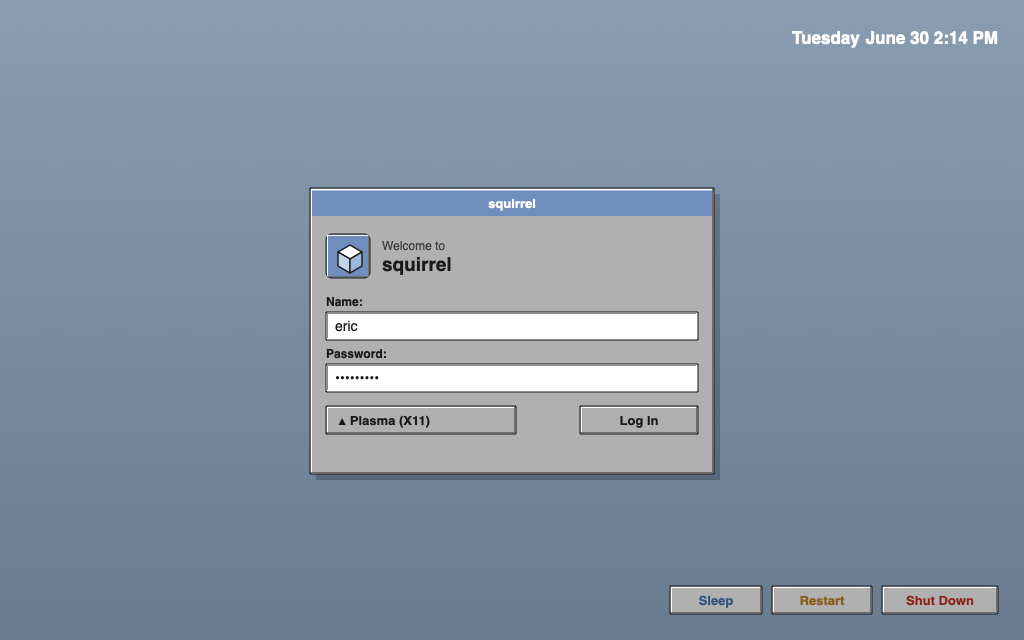
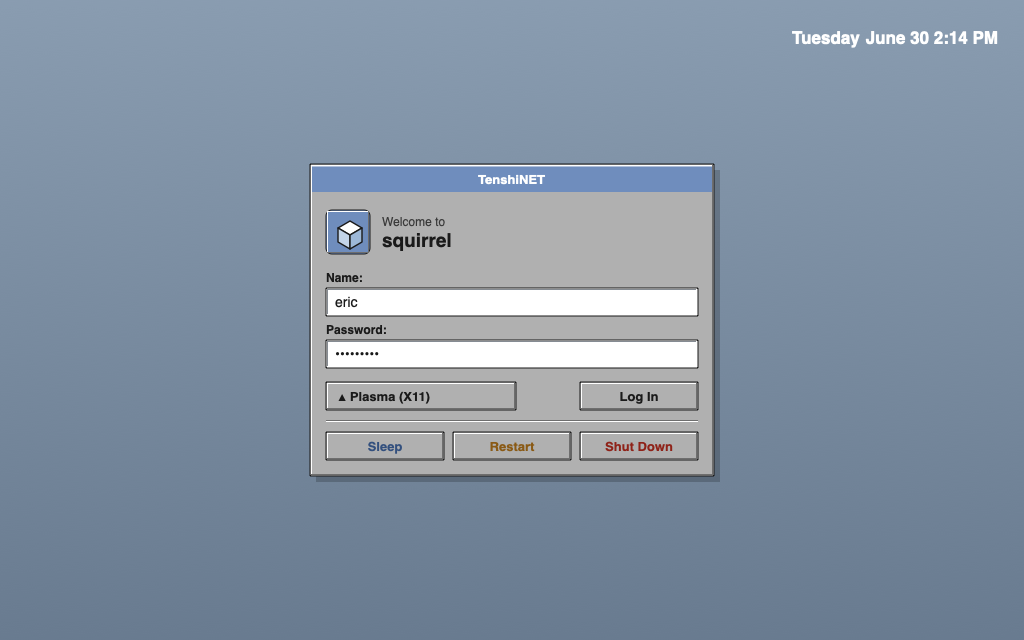
SDDM: title bar reads TenshiNET; move power buttons into the panel footer
Both Qt5 and Qt6 greeters: title bar text set to 'TenshiNET', and the
Sleep/Restart/Shut Down buttons relocated from the screen corner into the
bottom of the login panel below a chiselled divider. Previews regenerated.

Changed region(s): [[0.2812, 0.25, 0.7188, 0.75], [0.6562, 0.9062, 1.0, 0.9688]]

diff --git a/squirrellevel-plasma/sddm/SquirrelLevel/Main.qml b/squirrellevel-plasma/sddm/SquirrelLevel/Main.qml
@@ -63,7 +63,7 @@ Rectangle {
             Rectangle { anchors.bottom: parent.bottom; anchors.left: parent.left; anchors.right: parent.right; height: 1; color: "#1a1a1a"; opacity: 0.35 }
             Text {
                 anchors.centerIn: parent
-                text: (typeof sddm !== "undefined" && sddm.hostName) ? sddm.hostName : "Log In"
+                text: "TenshiNET"
                 color: "#ffffff"; font.family: "Helvetica"; font.pixelSize: 13; font.bold: true
             }
         }
@@ -145,6 +145,34 @@ Rectangle {
                     onClicked: root.doLogin()
                 }
             }
+
+            // chiselled divider
+            Item {
+                width: parent.width; height: 3
+                Rectangle { width: parent.width; height: 1; color: "#6e6e6e" }
+                Rectangle { y: 1; width: parent.width; height: 1; color: "#ffffff" }
+            }
+
+            // power buttons (footer of the login panel)
+            Row {
+                width: parent.width
+                spacing: 9
+                NeXTButton {
+                    width: 118; height: 28; text: "Sleep"; textColor: "#33507e"
+                    visible: (typeof sddm !== "undefined") ? sddm.canSuspend : true
+                    onClicked: if (typeof sddm !== "undefined") sddm.suspend()
+                }
+                NeXTButton {
+                    width: 118; height: 28; text: "Restart"; textColor: "#8a5a15"
+                    visible: (typeof sddm !== "undefined") ? sddm.canReboot : true
+                    onClicked: if (typeof sddm !== "undefined") sddm.reboot()
+                }
+                NeXTButton {
+                    width: 118; height: 28; text: "Shut Down"; textColor: "#8f2218"
+                    visible: (typeof sddm !== "undefined") ? sddm.canPowerOff : true
+                    onClicked: if (typeof sddm !== "undefined") sddm.powerOff()
+                }
+            }
         }
     }
 
@@ -179,27 +207,6 @@ Rectangle {
                     Component.onCompleted: if (index === root.sessionIndex) root.sessionName = model.name
                 }
             }
-        }
-    }
-
-    // --- power buttons (bottom-right) ---
-    Row {
-        anchors.right: parent.right; anchors.bottom: parent.bottom; anchors.margins: 26
-        spacing: 10
-        NeXTButton {
-            width: 92; height: 28; text: "Sleep"; textColor: "#33507e"
-            visible: (typeof sddm !== "undefined") ? sddm.canSuspend : true
-            onClicked: if (typeof sddm !== "undefined") sddm.suspend()
-        }
-        NeXTButton {
-            width: 100; height: 28; text: "Restart"; textColor: "#8a5a15"
-            visible: (typeof sddm !== "undefined") ? sddm.canReboot : true
-            onClicked: if (typeof sddm !== "undefined") sddm.reboot()
-        }
-        NeXTButton {
-            width: 116; height: 28; text: "Shut Down"; textColor: "#8f2218"
-            visible: (typeof sddm !== "undefined") ? sddm.canPowerOff : true
-            onClicked: if (typeof sddm !== "undefined") sddm.powerOff()
         }
     }
 

diff --git a/squirrellevel-plasma/sddm/qt6/SquirrelLevel/Main.qml b/squirrellevel-plasma/sddm/qt6/SquirrelLevel/Main.qml
@@ -63,7 +63,7 @@ Rectangle {
             Rectangle { anchors.bottom: parent.bottom; anchors.left: parent.left; anchors.right: parent.right; height: 1; color: "#1a1a1a"; opacity: 0.35 }
             Text {
                 anchors.centerIn: parent
-                text: (typeof sddm !== "undefined" && sddm.hostName) ? sddm.hostName : "Log In"
+                text: "TenshiNET"
                 color: "#ffffff"; font.family: "Helvetica"; font.pixelSize: 13; font.bold: true
             }
         }
@@ -145,6 +145,34 @@ Rectangle {
                     onClicked: root.doLogin()
                 }
             }
+
+            // chiselled divider
+            Item {
+                width: parent.width; height: 3
+                Rectangle { width: parent.width; height: 1; color: "#6e6e6e" }
+                Rectangle { y: 1; width: parent.width; height: 1; color: "#ffffff" }
+            }
+
+            // power buttons (footer of the login panel)
+            Row {
+                width: parent.width
+                spacing: 9
+                NeXTButton {
+                    width: 118; height: 28; text: "Sleep"; textColor: "#33507e"
+                    visible: (typeof sddm !== "undefined") ? sddm.canSuspend : true
+                    onClicked: if (typeof sddm !== "undefined") sddm.suspend()
+                }
+                NeXTButton {
+                    width: 118; height: 28; text: "Restart"; textColor: "#8a5a15"
+                    visible: (typeof sddm !== "undefined") ? sddm.canReboot : true
+                    onClicked: if (typeof sddm !== "undefined") sddm.reboot()
+                }
+                NeXTButton {
+                    width: 118; height: 28; text: "Shut Down"; textColor: "#8f2218"
+                    visible: (typeof sddm !== "undefined") ? sddm.canPowerOff : true
+                    onClicked: if (typeof sddm !== "undefined") sddm.powerOff()
+                }
+            }
         }
     }
 
@@ -179,27 +207,6 @@ Rectangle {
                     Component.onCompleted: if (index === root.sessionIndex) root.sessionName = model.name
                 }
             }
-        }
-    }
-
-    // --- power buttons (bottom-right) ---
-    Row {
-        anchors.right: parent.right; anchors.bottom: parent.bottom; anchors.margins: 26
-        spacing: 10
-        NeXTButton {
-            width: 92; height: 28; text: "Sleep"; textColor: "#33507e"
-            visible: (typeof sddm !== "undefined") ? sddm.canSuspend : true
-            onClicked: if (typeof sddm !== "undefined") sddm.suspend()
-        }
-        NeXTButton {
-            width: 100; height: 28; text: "Restart"; textColor: "#8a5a15"
-            visible: (typeof sddm !== "undefined") ? sddm.canReboot : true
-            onClicked: if (typeof sddm !== "undefined") sddm.reboot()
-        }
-        NeXTButton {
-            width: 116; height: 28; text: "Shut Down"; textColor: "#8f2218"
-            visible: (typeof sddm !== "undefined") ? sddm.canPowerOff : true
-            onClicked: if (typeof sddm !== "undefined") sddm.powerOff()
         }
     }
 